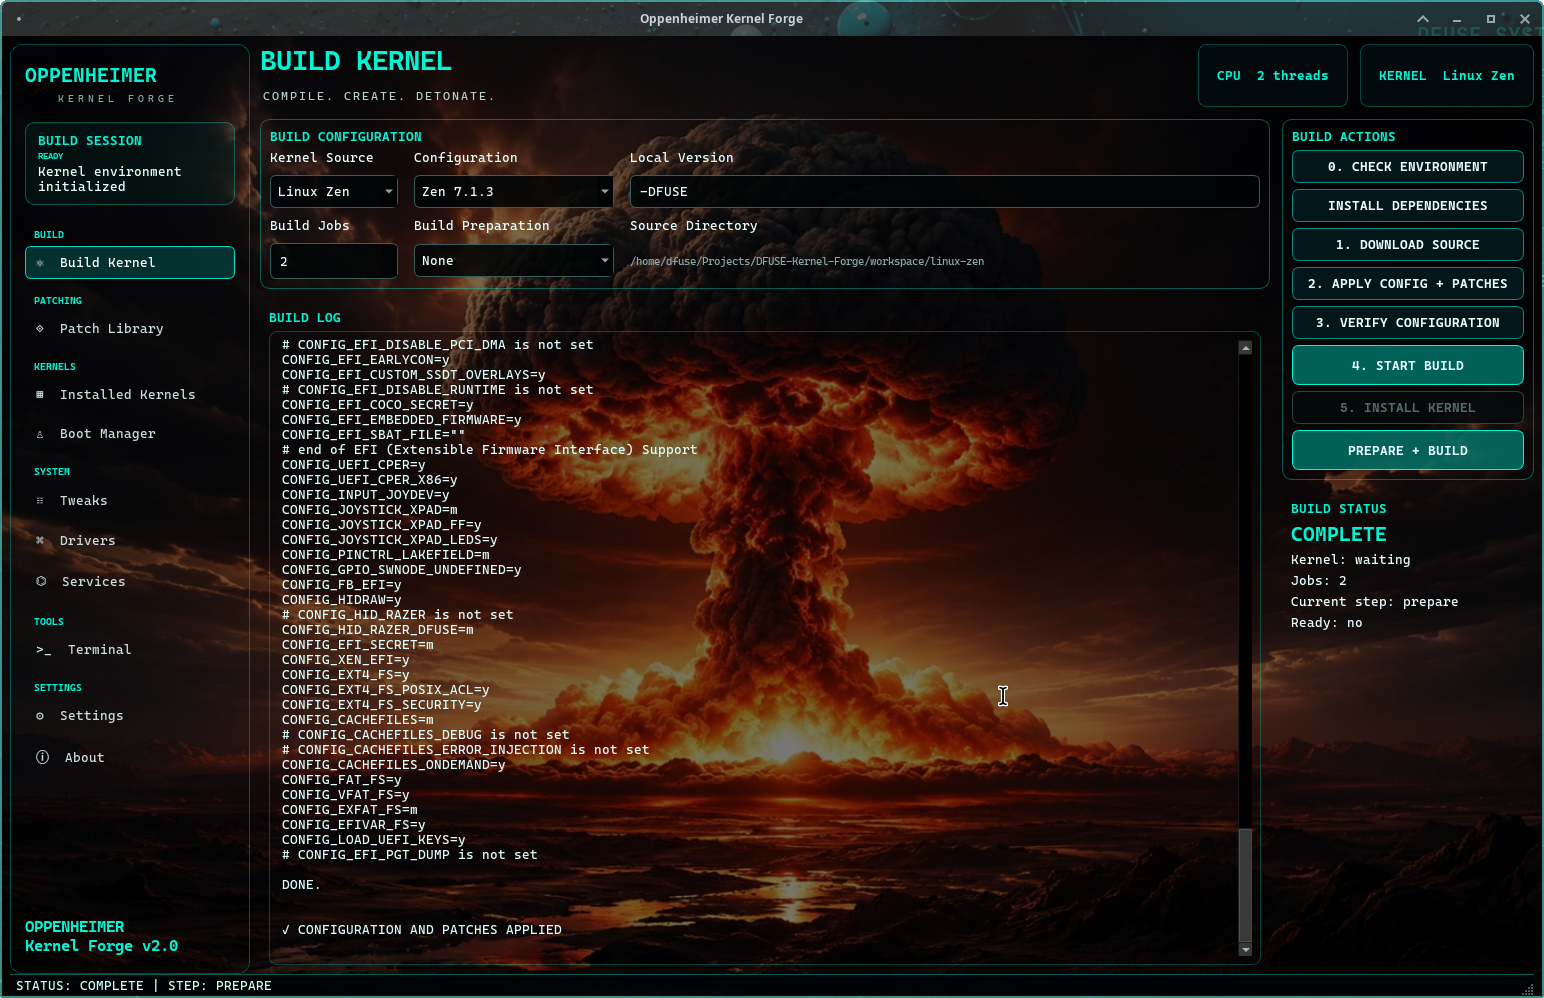
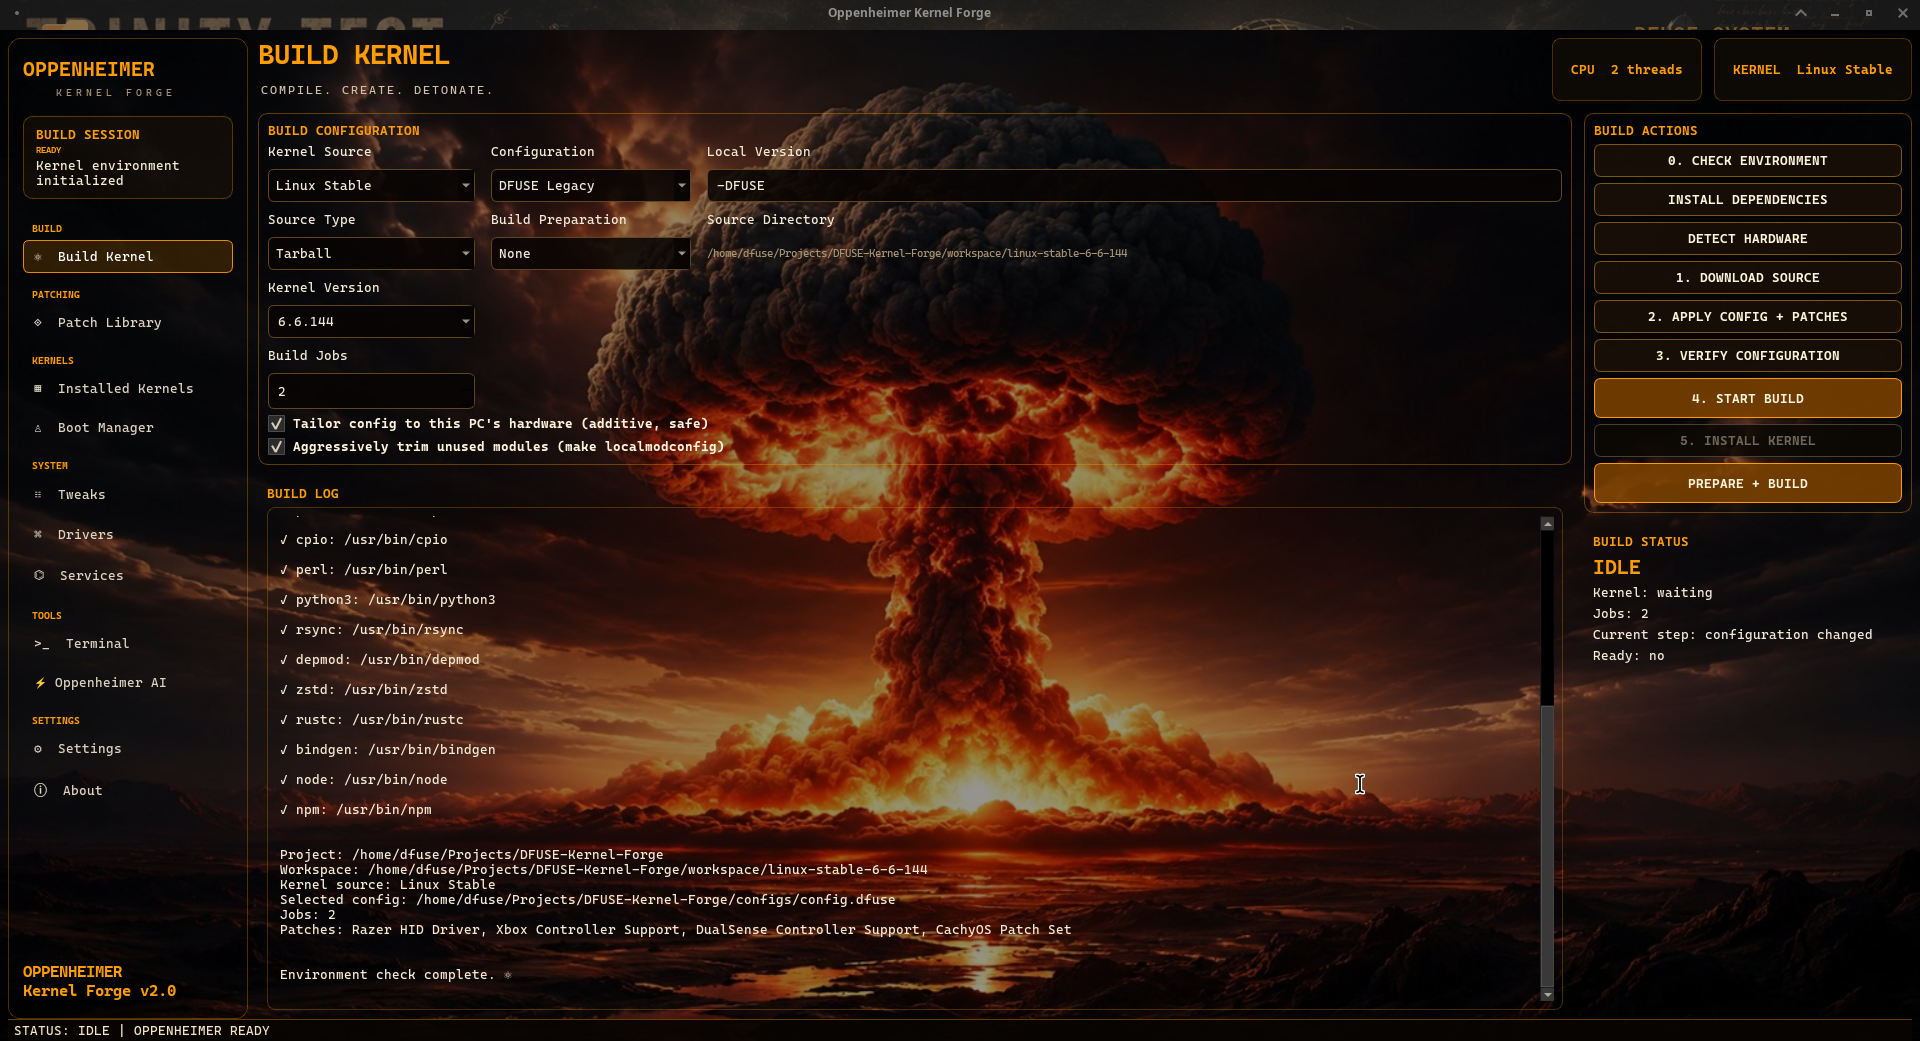
Save latest Kernel Forge changes before system reinstall

diff --git a/patches/hid-razer/driver/razeraccessory_driver.c b/patches/hid-razer/driver/razeraccessory_driver.c
@@ -11,9 +11,6 @@
 #include <linux/hid.h>
 #include <linux/random.h>
 
-#define init_module razer_accessory_init_module
-#define cleanup_module razer_accessory_cleanup_module
-
 #include "razeraccessory_driver.h"
 #include "razercommon.h"
 #include "razerchromacommon.h"
@@ -3062,7 +3059,7 @@ MODULE_DEVICE_TABLE(hid, razer_devices);
 /**
  * Describes the contents of the driver
  */
-struct hid_driver razer_accessory_driver = {
+static struct hid_driver razer_accessory_driver = {
     .name = "razeraccessory",
     .id_table = razer_devices,
     .match = razer_accessory_match,

diff --git a/patches/hid-razer/driver/razermouse_driver.c b/patches/hid-razer/driver/razermouse_driver.c
@@ -13,9 +13,6 @@
 #include <linux/random.h>
 #include <linux/version.h>
 
-#define init_module razer_mouse_init_module
-#define cleanup_module razer_mouse_cleanup_module
-
 #include "razermouse_driver.h"
 #include "razercommon.h"
 #include "razerchromacommon.h"
@@ -8641,7 +8638,7 @@ MODULE_DEVICE_TABLE(hid, razer_devices);
 /**
  * Describes the contents of the driver
  */
-struct hid_driver razer_mouse_driver = {
+static struct hid_driver razer_mouse_driver = {
     .name      = "razermouse",
     .id_table  = razer_devices,
     .probe     = razer_mouse_probe,

diff --git a/patches/hid-razer/driver/razerkbd_driver.c b/patches/hid-razer/driver/razerkbd_driver.c
@@ -13,9 +13,6 @@
 #include <linux/input-event-codes.h>
 #include <linux/version.h>
 
-#define init_module razer_kbd_init_module
-#define cleanup_module razer_kbd_cleanup_module
-
 #include "usb_hid_keys.h"
 
 #include "razerkbd_driver.h"
@@ -6509,7 +6506,7 @@ MODULE_DEVICE_TABLE(hid, razer_devices);
 /**
  * Describes the contents of the driver
  */
-struct hid_driver razer_kbd_driver = {
+static struct hid_driver razer_kbd_driver = {
     .name = "razerkbd",
     .id_table = razer_devices,
     .input_mapping = razer_kbd_input_mapping,

diff --git a/patches/hid-razer/driver/razerkraken_driver.c b/patches/hid-razer/driver/razerkraken_driver.c
@@ -11,9 +11,6 @@
 #include <linux/hid.h>
 #include <linux/random.h>
 
-#define init_module razer_kraken_init_module
-#define cleanup_module razer_kraken_cleanup_module
-
 #include "razerkraken_driver.h"
 #include "razercommon.h"
 
@@ -879,7 +876,7 @@ MODULE_DEVICE_TABLE(hid, razer_devices);
 /**
  * Describes the contents of the driver
  */
-struct hid_driver razer_kraken_driver = {
+static struct hid_driver razer_kraken_driver = {
     .name = "razerkraken",
     .id_table = razer_devices,
     .probe = razer_kraken_probe,
